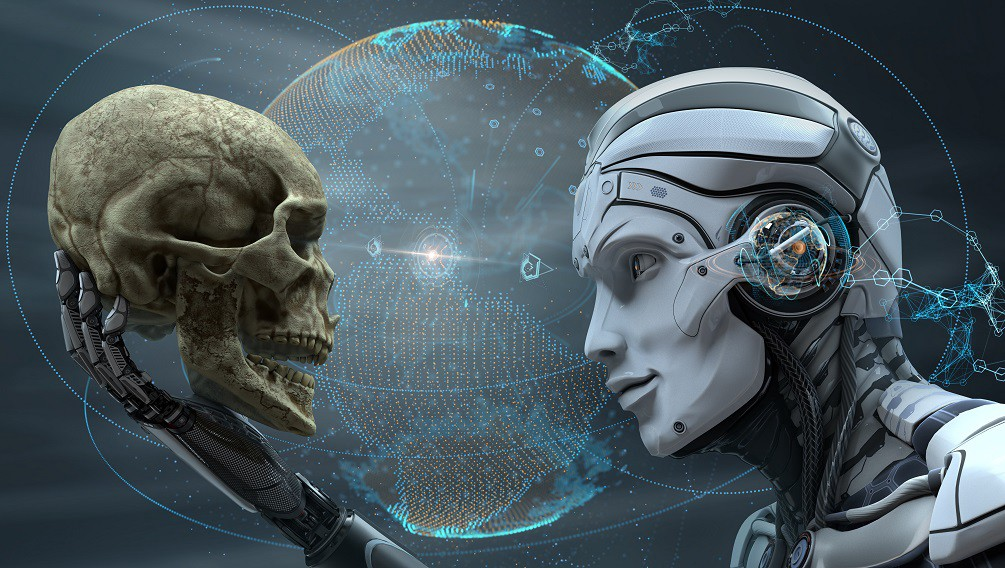
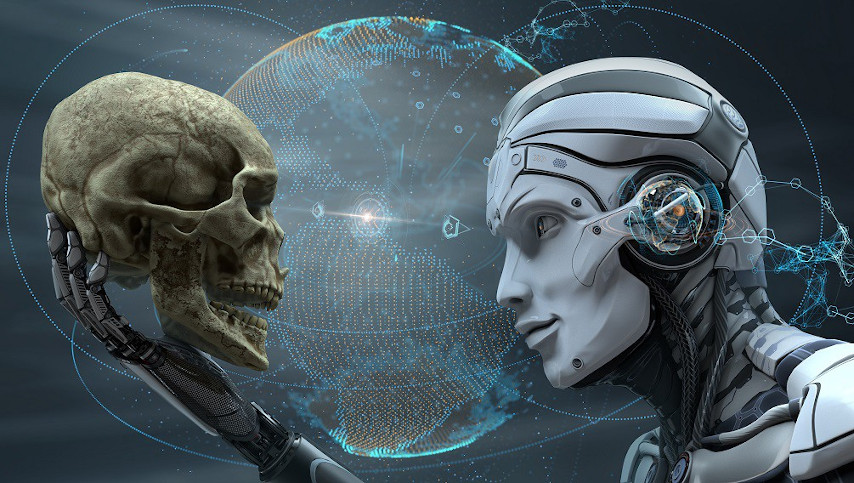
resizing to max width of 854

diff --git a/README.md b/README.md
@@ -1,3 +1,3 @@
 <p align="center">
-  <img width="1005" height="568" src="https://github.com/jgphilpott/jgphilpott/blob/main/Skull%26AI.jpeg">
+  <img width="854" height="483" src="https://github.com/jgphilpott/jgphilpott/blob/main/Skull%26AI.jpeg">
 </p>
